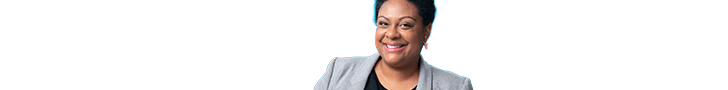
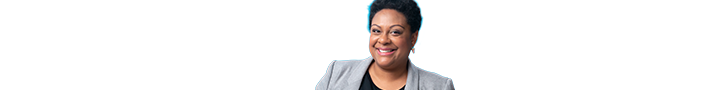
Update animation

Changed region(s): [[0.4231, 0.0, 0.6648, 1.0]]

diff --git a/2018/2018-08/2018-08-24/source/steve/160x600.css b/2018/2018-08/2018-08-24/source/steve/160x600.css
@@ -792,4 +792,23 @@
   -moz-animation: fadeIn 0.02s ease-in-out 9.75s forwards;
   animation: fadeIn 0.02s ease-in-out 9.75s forwards;
 }
-
+.image1-7-container {
+  -webkit-animation: fadeOut 0.02s ease-in-out 10.25s forwards;
+  -moz-animation: fadeOut 0.02s ease-in-out 10.25s forwards;
+  animation: fadeOut 0.02s ease-in-out 10.25s forwards;
+}
+.image2-7 {
+  -webkit-animation: fadeIn 0.02s ease-in-out 10.25s forwards;
+  -moz-animation: fadeIn 0.02s ease-in-out 10.25s forwards;
+  animation: fadeIn 0.02s ease-in-out 10.25s forwards;
+}
+.image2-7-container {
+  -webkit-animation: fadeOut 0.02s ease-in-out 10.75s forwards;
+  -moz-animation: fadeOut 0.02s ease-in-out 10.75s forwards;
+  animation: fadeOut 0.02s ease-in-out 10.75s forwards;
+}
+.image3-7 {
+  -webkit-animation: fadeIn 0.02s ease-in-out 10.75s forwards;
+  -moz-animation: fadeIn 0.02s ease-in-out 10.75s forwards;
+  animation: fadeIn 0.02s ease-in-out 10.75s forwards;  
+}

diff --git a/2018/2018-08/2018-08-24/source/steve/300x250.css b/2018/2018-08/2018-08-24/source/steve/300x250.css
@@ -792,4 +792,23 @@
   -moz-animation: fadeIn 0.02s ease-in-out 9.75s forwards;
   animation: fadeIn 0.02s ease-in-out 9.75s forwards;
 }
-
+.image1-7-container {
+  -webkit-animation: fadeOut 0.02s ease-in-out 10.25s forwards;
+  -moz-animation: fadeOut 0.02s ease-in-out 10.25s forwards;
+  animation: fadeOut 0.02s ease-in-out 10.25s forwards;
+}
+.image2-7 {
+  -webkit-animation: fadeIn 0.02s ease-in-out 10.25s forwards;
+  -moz-animation: fadeIn 0.02s ease-in-out 10.25s forwards;
+  animation: fadeIn 0.02s ease-in-out 10.25s forwards;
+}
+.image2-7-container {
+  -webkit-animation: fadeOut 0.02s ease-in-out 10.75s forwards;
+  -moz-animation: fadeOut 0.02s ease-in-out 10.75s forwards;
+  animation: fadeOut 0.02s ease-in-out 10.75s forwards;
+}
+.image3-7 {
+  -webkit-animation: fadeIn 0.02s ease-in-out 10.75s forwards;
+  -moz-animation: fadeIn 0.02s ease-in-out 10.75s forwards;
+  animation: fadeIn 0.02s ease-in-out 10.75s forwards;  
+}

diff --git a/2018/2018-08/2018-08-24/source/steve/300x600.css b/2018/2018-08/2018-08-24/source/steve/300x600.css
@@ -792,4 +792,23 @@
   -moz-animation: fadeIn 0.02s ease-in-out 9.75s forwards;
   animation: fadeIn 0.02s ease-in-out 9.75s forwards;
 }
-
+.image1-7-container {
+  -webkit-animation: fadeOut 0.02s ease-in-out 10.25s forwards;
+  -moz-animation: fadeOut 0.02s ease-in-out 10.25s forwards;
+  animation: fadeOut 0.02s ease-in-out 10.25s forwards;
+}
+.image2-7 {
+  -webkit-animation: fadeIn 0.02s ease-in-out 10.25s forwards;
+  -moz-animation: fadeIn 0.02s ease-in-out 10.25s forwards;
+  animation: fadeIn 0.02s ease-in-out 10.25s forwards;
+}
+.image2-7-container {
+  -webkit-animation: fadeOut 0.02s ease-in-out 10.75s forwards;
+  -moz-animation: fadeOut 0.02s ease-in-out 10.75s forwards;
+  animation: fadeOut 0.02s ease-in-out 10.75s forwards;
+}
+.image3-7 {
+  -webkit-animation: fadeIn 0.02s ease-in-out 10.75s forwards;
+  -moz-animation: fadeIn 0.02s ease-in-out 10.75s forwards;
+  animation: fadeIn 0.02s ease-in-out 10.75s forwards;  
+}

diff --git a/2018/2018-08/2018-08-24/source/steve/728x90.css b/2018/2018-08/2018-08-24/source/steve/728x90.css
@@ -792,4 +792,23 @@
   -moz-animation: fadeIn 0.02s ease-in-out 9.75s forwards;
   animation: fadeIn 0.02s ease-in-out 9.75s forwards;
 }
-
+.image1-7-container {
+  -webkit-animation: fadeOut 0.02s ease-in-out 10.25s forwards;
+  -moz-animation: fadeOut 0.02s ease-in-out 10.25s forwards;
+  animation: fadeOut 0.02s ease-in-out 10.25s forwards;
+}
+.image2-7 {
+  -webkit-animation: fadeIn 0.02s ease-in-out 10.25s forwards;
+  -moz-animation: fadeIn 0.02s ease-in-out 10.25s forwards;
+  animation: fadeIn 0.02s ease-in-out 10.25s forwards;
+}
+.image2-7-container {
+  -webkit-animation: fadeOut 0.02s ease-in-out 10.75s forwards;
+  -moz-animation: fadeOut 0.02s ease-in-out 10.75s forwards;
+  animation: fadeOut 0.02s ease-in-out 10.75s forwards;
+}
+.image3-7 {
+  -webkit-animation: fadeIn 0.02s ease-in-out 10.75s forwards;
+  -moz-animation: fadeIn 0.02s ease-in-out 10.75s forwards;
+  animation: fadeIn 0.02s ease-in-out 10.75s forwards;  
+}

diff --git a/2018/2018-08/2018-08-24/source/steve/970x250.css b/2018/2018-08/2018-08-24/source/steve/970x250.css
@@ -792,4 +792,23 @@
   -moz-animation: fadeIn 0.02s ease-in-out 9.75s forwards;
   animation: fadeIn 0.02s ease-in-out 9.75s forwards;
 }
-
+.image1-7-container {
+  -webkit-animation: fadeOut 0.02s ease-in-out 10.25s forwards;
+  -moz-animation: fadeOut 0.02s ease-in-out 10.25s forwards;
+  animation: fadeOut 0.02s ease-in-out 10.25s forwards;
+}
+.image2-7 {
+  -webkit-animation: fadeIn 0.02s ease-in-out 10.25s forwards;
+  -moz-animation: fadeIn 0.02s ease-in-out 10.25s forwards;
+  animation: fadeIn 0.02s ease-in-out 10.25s forwards;
+}
+.image2-7-container {
+  -webkit-animation: fadeOut 0.02s ease-in-out 10.75s forwards;
+  -moz-animation: fadeOut 0.02s ease-in-out 10.75s forwards;
+  animation: fadeOut 0.02s ease-in-out 10.75s forwards;
+}
+.image3-7 {
+  -webkit-animation: fadeIn 0.02s ease-in-out 10.75s forwards;
+  -moz-animation: fadeIn 0.02s ease-in-out 10.75s forwards;
+  animation: fadeIn 0.02s ease-in-out 10.75s forwards;  
+}

diff --git a/2018/2018-08/2018-08-24/source/steve/160x600.html b/2018/2018-08/2018-08-24/source/steve/160x600.html
@@ -75,6 +75,13 @@
 								<div class="image3-6 image3 container">&nbsp;</div>
 							</div>
 
+							<div class="image1-7-container container">
+								<div class="image1-7 image1 container">&nbsp;</div>
+							</div>
+							<div class="image2-7-container container">
+								<div class="image2-7 image2 container">&nbsp;</div>
+							</div>
+
 							<div class="text1-1-container container">
 								<div class="text1-1 text1 container">&nbsp;</div>
 							</div>
@@ -85,7 +92,7 @@
 								<div class="text1-2 text1 container">&nbsp;</div>
 							</div>
 						</div>
-						<div class="image1-7 image1 container">&nbsp;</div>
+						<div class="image3-7 image3 container">&nbsp;</div>
 						<div class="text2-2 text2 container">&nbsp;</div>
 						<div class="footer container">&nbsp;</div>
 						<div class="border container">&nbsp;</div>

diff --git a/2018/2018-08/2018-08-24/source/steve/300x250.html b/2018/2018-08/2018-08-24/source/steve/300x250.html
@@ -75,6 +75,13 @@
 								<div class="image3-6 image3 container">&nbsp;</div>
 							</div>
 
+							<div class="image1-7-container container">
+								<div class="image1-7 image1 container">&nbsp;</div>
+							</div>
+							<div class="image2-7-container container">
+								<div class="image2-7 image2 container">&nbsp;</div>
+							</div>
+
 							<div class="text1-1-container container">
 								<div class="text1-1 text1 container">&nbsp;</div>
 							</div>
@@ -85,7 +92,7 @@
 								<div class="text1-2 text1 container">&nbsp;</div>
 							</div>
 						</div>
-						<div class="image1-7 image1 container">&nbsp;</div>
+						<div class="image3-7 image3 container">&nbsp;</div>
 						<div class="text2-2 text2 container">&nbsp;</div>
 						<div class="footer container">&nbsp;</div>
 						<div class="border container">&nbsp;</div>

diff --git a/2018/2018-08/2018-08-24/source/steve/300x600.html b/2018/2018-08/2018-08-24/source/steve/300x600.html
@@ -75,6 +75,13 @@
 								<div class="image3-6 image3 container">&nbsp;</div>
 							</div>
 
+							<div class="image1-7-container container">
+								<div class="image1-7 image1 container">&nbsp;</div>
+							</div>
+							<div class="image2-7-container container">
+								<div class="image2-7 image2 container">&nbsp;</div>
+							</div>
+
 							<div class="text1-1-container container">
 								<div class="text1-1 text1 container">&nbsp;</div>
 							</div>
@@ -85,7 +92,7 @@
 								<div class="text1-2 text1 container">&nbsp;</div>
 							</div>
 						</div>
-						<div class="image1-7 image1 container">&nbsp;</div>
+						<div class="image3-7 image3 container">&nbsp;</div>
 						<div class="text2-2 text2 container">&nbsp;</div>
 						<div class="footer container">&nbsp;</div>
 						<div class="border container">&nbsp;</div>

diff --git a/2018/2018-08/2018-08-24/source/steve/728x90.html b/2018/2018-08/2018-08-24/source/steve/728x90.html
@@ -75,6 +75,13 @@
 								<div class="image3-6 image3 container">&nbsp;</div>
 							</div>
 
+							<div class="image1-7-container container">
+								<div class="image1-7 image1 container">&nbsp;</div>
+							</div>
+							<div class="image2-7-container container">
+								<div class="image2-7 image2 container">&nbsp;</div>
+							</div>
+
 							<div class="text1-1-container container">
 								<div class="text1-1 text1 container">&nbsp;</div>
 							</div>
@@ -85,7 +92,7 @@
 								<div class="text1-2 text1 container">&nbsp;</div>
 							</div>
 						</div>
-						<div class="image1-7 image1 container">&nbsp;</div>
+						<div class="image3-7 image3 container">&nbsp;</div>
 						<div class="text2-2 text2 container">&nbsp;</div>
 						<div class="footer container">&nbsp;</div>
 						<div class="border container">&nbsp;</div>

diff --git a/2018/2018-08/2018-08-24/source/steve/970x250.html b/2018/2018-08/2018-08-24/source/steve/970x250.html
@@ -75,6 +75,13 @@
 								<div class="image3-6 image3 container">&nbsp;</div>
 							</div>
 
+							<div class="image1-7-container container">
+								<div class="image1-7 image1 container">&nbsp;</div>
+							</div>
+							<div class="image2-7-container container">
+								<div class="image2-7 image2 container">&nbsp;</div>
+							</div>
+
 							<div class="text1-1-container container">
 								<div class="text1-1 text1 container">&nbsp;</div>
 							</div>
@@ -85,7 +92,7 @@
 								<div class="text1-2 text1 container">&nbsp;</div>
 							</div>
 						</div>
-						<div class="image1-7 image1 container">&nbsp;</div>
+						<div class="image3-7 image3 container">&nbsp;</div>
 						<div class="text2-2 text2 container">&nbsp;</div>
 						<div class="footer container">&nbsp;</div>
 						<div class="border container">&nbsp;</div>
